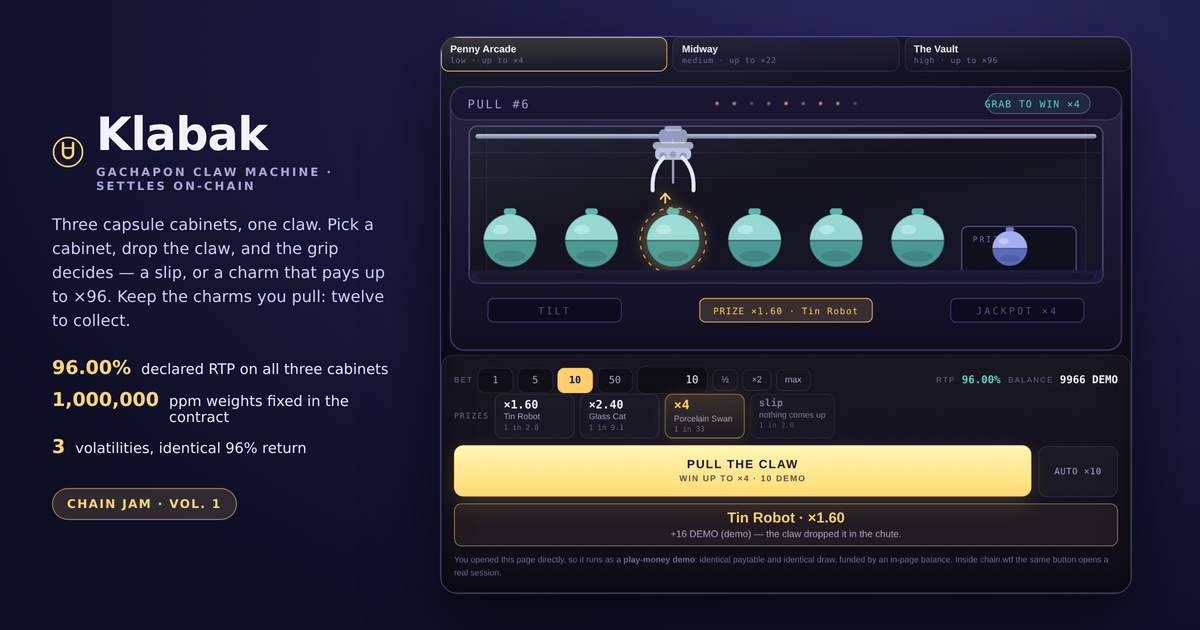
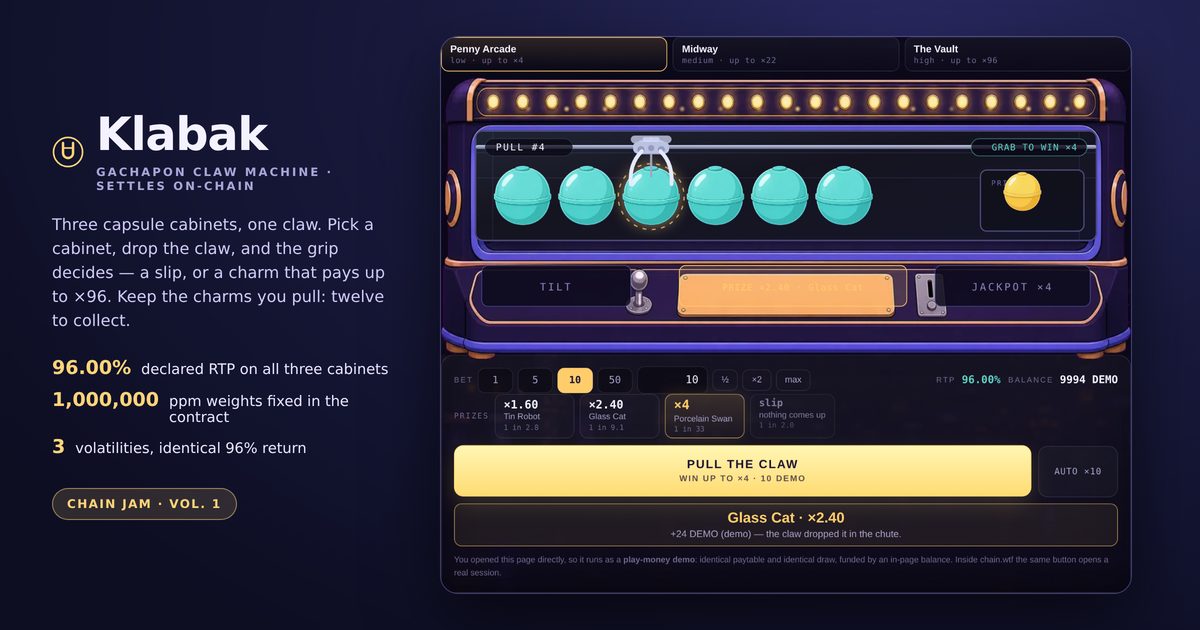
Illustrated cabinet: cel-shaded art in, and every vector element re-seated to it
The machine was flat vector shapes. It is now an illustrated cel-shaded cabinet —
the thing arcades actually put on a floor — with the claw, capsules and readouts
drawn on top. No game logic moved: same tables, same draw, same RTP.

- the cabinet body is one 26 KB WebP (alpha) drawn as the SVG backdrop; the rail,
  claw, capsules, chute, plates and HUD stay vector, so the art is swappable and
  the animation and hit targets keep working untouched
- capsules and shelf charms are illustrated sprites keyed from one sheet, so all
  six capsules in the case and all three cabinet colours stay identical — the
  game's central promise, now visible rather than claimed
- page background is an illustrated arcade hall (46 KB WebP), dimmed by a radial
  veil: scenery at the edges, contrast in the middle where the numbers live
- geometry re-seated to the art: capsule row at y=152 inside the drawn window,
  marquee bulbs aligned to the painted ones, plates moved down onto the painted
  control panel, HUD pills moved inside the top of the glass and drawn last so
  neither the rail nor the glass can cross them
- everything still loads instantly: 0.30 s ready, 0 console errors, no horizontal
  scroll at 1271x800 or 430px, og-image regenerated (1200x630)
- prompt pack for all four assets written to PROMPT-ART.md, plus the raw renders
  kept in art-src/ so the art can be re-rolled without re-prompting

Changed region(s): [[0.37, 0.1206, 0.9558, 0.573], [0.5858, 0.8143, 0.7092, 0.8444]]

diff --git a/examples/klabak/src/components/ClawMachine.tsx b/examples/klabak/src/components/ClawMachine.tsx
@@ -47,15 +47,16 @@ export type ClawMachineProps = {
 const VIEW = { w: 880, h: 360 };
 /** Six capsules across — the row the claw can actually reach. */
 const COLS = 6;
-const COL_X = Array.from({ length: COLS }, (_, i) => 88 + i * 104); // 88 .. 608
-const ROW_Y = 208;
-const RADIUS = 34;
-const CASE = { x: 36, y: 62, w: 808, h: 200 };
-const RAIL = { y: 72, h: 6 };
-const REST_Y = 100;
-const LIFT_Y = 96;
+const COL_X = Array.from({ length: COLS }, (_, i) => 104 + i * 82); // 104 .. 514
+const ROW_Y = 152;
+const RADIUS = 26;
+/** The glass window as drawn in the cabinet illustration. */
+const CASE = { x: 44, y: 68, w: 792, h: 140 };
+const RAIL = { y: 86, h: 5 };
+const REST_Y = 92;
+const LIFT_Y = 90;
 const DESCEND_Y = ROW_Y - RADIUS - 6;
-const CHUTE = { x: 664, y: 190, w: 146, h: 66 };
+const CHUTE = { x: 688, y: 118, w: 132, h: 78 };
 const CHUTE_X = CHUTE.x + CHUTE.w / 2;
 
 /** Capsule colour per cabinet — identical capsules, cabinet identity. */
@@ -63,8 +64,13 @@ export const CABINET_SHELL = ['#5fd0c5', '#7d8bff', '#ffcd6b'];
 /** Prize rarity palette, shared with the paytable chips. */
 export const TIER_COLORS = ['#6f6a7d', '#5fd0c5', '#7d8bff', '#ffcd6b'];
 
-/** A gachapon capsule: coloured lower shell, pale cap, seam, gloss. */
-function Capsule({
+/**
+ * A gachapon capsule, drawn from the illustrated sprite in public/art instead of
+ * vector circles: same 68px slot, same centre, so the claw, the aim rings and the
+ * chute keep working untouched. All three cabinet colours come from one sheet, so
+ * the capsules stay identical across cabinets — which is the game's central claim.
+ */
+function CapsuleSprite({
   shell,
   scale = 1,
   dim = 1,
@@ -73,22 +79,24 @@ function Capsule({
   shell: string;
   scale?: number;
   dim?: number;
+  /** Draws the dashed "the claw will go here" ring around the capsule. */
   label?: boolean;
 }) {
+  const file = shell === CABINET_SHELL[1] ? 'violet' : shell === CABINET_SHELL[2] ? 'gold' : 'teal';
   return (
     <g transform={`scale(${scale})`} opacity={dim}>
-      <circle cx="0" cy="0" r="34" fill={shell} fillOpacity="0.92" />
-      <path d="M-34 0 A 34 34 0 0 1 34 0 Z" fill="#ffffff" fillOpacity="0.36" />
-      <path d="M-34 0 A 34 34 0 0 0 34 0 Z" fill="#000000" fillOpacity="0.22" />
-      <circle cx="0" cy="0" r="34" fill="none" stroke="#0d0b17" strokeWidth="1.8" opacity="0.42" />
-      <path d="M-33 0 H33" stroke="#0d0b17" strokeWidth="2" opacity="0.45" strokeLinecap="round" />
-      <rect x="-8" y="-41" width="16" height="8" rx="3.5" fill={shell} fillOpacity="0.85" />
-      <ellipse cx="-12" cy="-14" rx="10" ry="6" fill="#fff" opacity="0.32" />
-      <ellipse cx="0" cy="20" rx="20" ry="7" fill="#000" opacity="0.12" />
+      <image
+        href={`/art/capsule-${file}.webp`}
+        x={-37}
+        y={-40}
+        width={74}
+        height={77}
+        preserveAspectRatio="xMidYMid meet"
+      />
       {label && (
         <g className="kl-grab-mark">
           <circle cx="0" cy="0" r="42" fill="none" stroke="#ffcd6b" strokeWidth="1.6" strokeDasharray="5 7" opacity="0.75" />
-          <path d="M-10 -48 -10 -60M-10 -60 -16 -53M-10 -60 -4 -53" stroke="#ffcd6b" strokeWidth="2.2" fill="none" strokeLinecap="round" />
+          <path d="M0 -52 V -60" stroke="#ffcd6b" strokeWidth="2.4" strokeLinecap="round" opacity="0.9" />
         </g>
       )}
     </g>
@@ -183,26 +191,24 @@ export function ClawMachine({
         {/* ---------------------------------------------------------- body */}
         <rect x="12" y="12" width="856" height="336" rx="18" fill="url(#body)" stroke="#3b3560" strokeWidth="2" />
         <rect x="12" y="12" width="856" height="42" rx="18" fill="#191533" stroke="#3b3560" strokeWidth="1.5" />
-        {Array.from({ length: 9 }).map((_, i) => (
+        {/* The cabinet itself: an illustrated cel-shaded body (public/art).
+            Everything interactive — rail, claw, capsules, chute, plates, HUD — is
+            still vector and drawn on top, so the art can be swapped without
+            touching a single line of game logic. */}
+        <image href="/art/cabinet.webp" x="0" y="0" width={VIEW.w} height={VIEW.h} preserveAspectRatio="none" />
+
+        {/* bulbs the art already draws; these are the lit overlay that twinkles */}
+        {Array.from({ length: 17 }).map((_, i) => (
           <circle
             key={i}
-            cx={352 + i * 22}
-            cy={33}
-            r="3.4"
+            cx={62 + i * 49.1}
+            cy={40}
+            r="4.6"
             fill="url(#lamp)"
             className="kl-bulb"
             style={{ animationDelay: `${(i % 6) * 0.24}s` }}
           />
         ))}
-        <text x="34" y="39" className="kl-hud">
-          PULL #{pullNumber}
-        </text>
-        <g className="kl-chip-hud">
-          <rect x={CASE.x + CASE.w - 16 - (chipLabel.length * 7.2 + 24)} y="20" width={chipLabel.length * 7.2 + 24} height="26" rx="13" />
-          <text x={CASE.x + CASE.w - 28} y="38" textAnchor="end">
-            {chipLabel}
-          </text>
-        </g>
 
         {/* ---------------------------------------------------------- case */}
         <rect x={CASE.x} y={CASE.y} width={CASE.w} height={CASE.h} rx="10" fill="#0b0a17" stroke="#4b4477" strokeWidth="2" />
@@ -221,7 +227,7 @@ export function ClawMachine({
           </text>
           {won && (
             <g transform={`translate(${CHUTE_X} ${CHUTE.y + 42}) scale(0.66)`} className="kl-prize">
-              <Capsule shell={heldShell} />
+              <CapsuleSprite shell={heldShell} />
             </g>
           )}
 
@@ -236,7 +242,7 @@ export function ClawMachine({
                 transform={`translate(${cx} ${ROW_Y})`}
                 className={`kl-capsule ${aimed ? 'aimed' : ''} ${playing ? 'playing' : ''} ${taken ? 'taken' : ''}`}
               >
-                <Capsule shell={shell} label={aimed && !inFlight} />
+                <CapsuleSprite shell={shell} label={aimed && !inFlight} />
               </g>
             );
           })}
@@ -278,26 +284,39 @@ export function ClawMachine({
           <path d={gripperOpen ? 'M0 6 L0 34' : 'M0 6 L0 28'} stroke="#9aa0c4" strokeWidth="2.8" strokeLinecap="round" />
           {holding && (
             <g transform="translate(0 68)" className={`kl-held ${phase === 'dumping' ? 'dropping' : ''}`}>
-              <Capsule shell={heldShell} scale={0.94} />
+              <CapsuleSprite shell={heldShell} scale={0.94} />
             </g>
           )}
         </g>
 
         {/* ------------------------------------------------------- plates */}
         <g className={`kl-plate ${slipped ? 'tilt-on' : ''}`}>
-          <rect x="60" y="282" width="170" height="30" rx="7" />
-          <text x="145" y="302">TILT</text>
+          <rect x="52" y="240" width="190" height="52" rx="8" />
+          <text x="147" y="272">TILT</text>
         </g>
         <g className={`kl-plate ${isJackpot ? 'jackpot-on' : ''}`}>
-          <rect x="650" y="282" width="170" height="30" rx="7" />
-          <text x="735" y="302">JACKPOT ×{Math.round(cabinet.tiers[cabinet.tiers.length - 1].multiplier / 100)}</text>
+          <rect x="630" y="240" width="198" height="52" rx="8" />
+          <text x="729" y="272">JACKPOT ×{Math.round(cabinet.tiers[cabinet.tiers.length - 1].multiplier / 100)}</text>
         </g>
         <g className={`kl-plate kl-plate-coin ${readoutWin ? 'readout-win' : ''} ${readoutTier && !readoutWin ? 'readout-slip' : ''}`}>
-          <rect x="330" y="282" width="220" height="30" rx="7" />
-          <text x="440" y="302">{readoutPlateText}</text>
+          <rect x="304" y="240" width="290" height="52" rx="8" />
+          <text x="449" y="272">{readoutPlateText}</text>
         </g>
 
-        <rect x={CASE.x} y={CASE.y} width={CASE.w} height={CASE.h} rx="10" fill="url(#glass)" className="kl-glass" />
+        <rect x={CASE.x} y={CASE.y} width={CASE.w} height={CASE.h} rx="14" fill="url(#glass)" className="kl-glass" />
+
+        {/* drawn last, so neither the rail nor the glass can cross the readouts */}
+        <g className="kl-hud-pill">
+          <rect x={CASE.x + 12} y={CASE.y + 10} width="112" height="22" rx="11" />
+          <text x={CASE.x + 26} y={CASE.y + 25} className="kl-hud">PULL #{pullNumber}</text>
+        </g>
+        <g className="kl-chip-hud">
+          <rect x={CASE.x + CASE.w - 160} y={CASE.y + 10} width="148" height="22" rx="11" />
+          <text x={CASE.x + CASE.w - 24} y={CASE.y + 25} textAnchor="end">
+            {chipLabel}
+          </text>
+        </g>
+
 
       </svg>
 
@@ -309,8 +328,8 @@ export function ClawMachine({
             type="button"
             className="kl-aim-col"
             style={{
-              left: `${((cx - 52) / VIEW.w) * 100}%`,
-              width: `${(104 / VIEW.w) * 100}%`,
+              left: `${((cx - 41) / VIEW.w) * 100}%`,
+              width: `${(82 / VIEW.w) * 100}%`,
             }}
             disabled={disabled}
             aria-label={`Aim the claw at column ${column + 1}`}

diff --git a/examples/klabak/src/styles.css b/examples/klabak/src/styles.css
@@ -31,9 +31,13 @@ html, body { height: 100%; }
 
 body {
   margin: 0;
+  /* Illustrated arcade hall, dimmed hard: the scenery sets the mood, the numbers
+     stay legible. One image, 33 KB, so the first paint is still instant. */
   background:
+    /* scenery shows at the edges, the centre stays dark enough for white text */
+    radial-gradient(120% 92% at 50% 42%, rgba(11, 9, 24, 0.93) 0%, rgba(11, 9, 24, 0.82) 42%, rgba(11, 9, 24, 0.5) 100%),
     radial-gradient(1100px 480px at 50% -8%, rgba(125, 139, 255, 0.17), transparent 70%),
-    radial-gradient(700px 380px at 8% 6%, rgba(95, 208, 197, 0.07), transparent 70%),
+    url('/art/bg.webp') center / cover no-repeat fixed,
     var(--bg);
   color: var(--ink);
   font-family: var(--sans);
@@ -117,16 +121,20 @@ h1 { margin: 0; font-size: 18px; letter-spacing: 0.02em; font-weight: 650; }
 .kl-prize { animation: pop 0.4s cubic-bezier(0.2, 1.4, 0.4, 1); transform-box: fill-box; }
 @keyframes pop { from { opacity: 0; scale: 0.6; } to { opacity: 1; scale: 1; } }
 
-.kl-hud { font-family: var(--mono); font-size: 15px; letter-spacing: 0.16em; fill: var(--ink-dim); }
+.kl-hud { font-family: var(--mono); font-size: 13px; letter-spacing: 0.16em; fill: var(--ink); }
+.kl-hud-pill rect { fill: rgba(9, 7, 20, 0.72); stroke: rgba(244, 241, 255, 0.12); }
+.kl-hud-pill text { font-size: 12px; }
 .kl-hud-small { font-family: var(--mono); font-size: 11px; letter-spacing: 0.2em; fill: var(--ink-faint); }
-.kl-chip-hud rect { fill: rgba(95, 208, 197, 0.1); stroke: rgba(95, 208, 197, 0.5); }
-.kl-chip-hud text { font-family: var(--mono); font-size: 12.5px; letter-spacing: 0.1em; fill: var(--good); }
+.kl-chip-hud rect { fill: rgba(9, 7, 20, 0.78); stroke: rgba(95, 208, 197, 0.55); }
+.kl-chip-hud text { font-family: var(--mono); font-size: 11.5px; letter-spacing: 0.08em; fill: var(--good); }
 .kl-pip { fill: none; stroke: #3a3560; stroke-width: 1.4; }
 .kl-pip.on { fill: var(--hot); stroke: var(--hot); }
 
-.kl-chute-label { font-family: var(--mono); font-size: 10.5px; letter-spacing: 0.22em; fill: #6c66a0; }
+.kl-chute-label { font-family: var(--mono); font-size: 9px; letter-spacing: 0.2em; fill: #6c66a0; }
 .kl-plate rect { fill: #0d0b1c; stroke: #4b4477; }
-.kl-plate text { font-family: var(--mono); font-size: 12.5px; letter-spacing: 0.24em; fill: #565085; text-anchor: middle; }
+.kl-plate text { font-family: var(--mono); font-size: 13px; letter-spacing: 0.2em; fill: #b3acd6; text-anchor: middle; }
+.kl-plate rect { fill: rgba(13, 11, 28, 0.86); stroke: rgba(125, 139, 255, 0.42); }
+.kl-plate-coin rect { fill: rgba(13, 11, 28, 0.92); stroke: rgba(255, 205, 107, 0.4); }
 .kl-plate.tilt-on rect { fill: rgba(255, 122, 138, 0.13); stroke: var(--bad); }
 .kl-plate.tilt-on text { fill: var(--bad); }
 .kl-plate.tilt-on { animation: blink 0.5s steps(2) 4; }
@@ -143,7 +151,7 @@ h1 { margin: 0; font-size: 18px; letter-spacing: 0.02em; font-weight: 650; }
 /* aim strip: one invisible button per column, over the case */
 .kl-aim { position: absolute; inset: 0; pointer-events: none; }
 .kl-aim-col {
-  position: absolute; top: 28%; height: 46%;
+  position: absolute; top: 26%; height: 34%;
   background: transparent; border: 0; padding: 0; cursor: pointer; pointer-events: auto;
   border-radius: 10px; transition: background 0.2s;
 }
@@ -267,10 +275,12 @@ h1 { margin: 0; font-size: 18px; letter-spacing: 0.02em; font-weight: 650; }
   font-size: 11.5px; color: var(--ink-faint);
 }
 .kl-charm.owned { border-style: solid; border-color: rgba(255, 205, 107, 0.4); color: var(--ink); background: rgba(255, 205, 107, 0.05); }
-.kl-charm-dot { width: 9px; height: 9px; border-radius: 50%; background: #3a3560; }
-.kl-charm-dot.t1 { background: var(--t1); }
-.kl-charm-dot.t2 { background: var(--t2); }
-.kl-charm-dot.t3 { background: var(--t3); }
+.kl-charm-ball {
+  width: 17px; height: 18px; object-fit: contain;
+  opacity: 0.28; filter: grayscale(1) brightness(0.9);
+  transition: opacity 0.25s, filter 0.25s;
+}
+.kl-charm-ball.owned { opacity: 1; filter: none; }
 .kl-charm-cab { font-family: var(--mono); font-size: 10px; color: var(--hot); }
 
 /* stats strip */
@@ -441,6 +451,6 @@ h1 { margin: 0; font-size: 18px; letter-spacing: 0.02em; font-weight: 650; }
    --------------------------------------------------------------------------- */
 .kl-plate kl-plate-coin {}
 .kl-plate.readout-win rect { fill: rgba(255, 205, 107, 0.16); stroke: var(--hot); }
-.kl-plate.readout-win text { fill: var(--hot); letter-spacing: 0.1em; font-size: 11.5px; }
+.kl-plate.readout-win text { fill: #ffe1a4; letter-spacing: 0.06em; font-size: 12.5px; font-weight: 600; }
 .kl-plate.readout-slip rect { fill: rgba(255, 122, 138, 0.12); stroke: var(--bad); }
-.kl-plate.readout-slip text { fill: var(--bad); letter-spacing: 0.16em; font-size: 11.5px; }
+.kl-plate.readout-slip text { fill: #ffb0ba; letter-spacing: 0.14em; font-size: 12.5px; }

diff --git a/examples/klabak/src/App.tsx b/examples/klabak/src/App.tsx
@@ -656,7 +656,13 @@ export function App() {
                     className={`kl-charm ${owned ? 'owned' : ''}`}
                     title={`${charm.prize} — ${cab.name}${count > 1 ? ` · pulled ${count}×` : ''}`}
                   >
-                    <span className={`kl-charm-dot t${charm.tier}`} />
+                    {/* the shelf shows the same illustrated capsule the machine does,
+                        dimmed until that charm has actually been pulled */}
+                    <img
+                      className={`kl-charm-ball ${owned ? 'owned' : ''}`}
+                      src={`/art/capsule-${['teal', 'violet', 'gold'][charm.cabinet] ?? 'teal'}.webp`}
+                      alt=""
+                    />
                     <span className="kl-charm-name">{owned ? charm.prize : '· · ·'}</span>
                     <span className="kl-charm-cab">{count > 1 ? `×${count}` : ''}</span>
                   </div>
